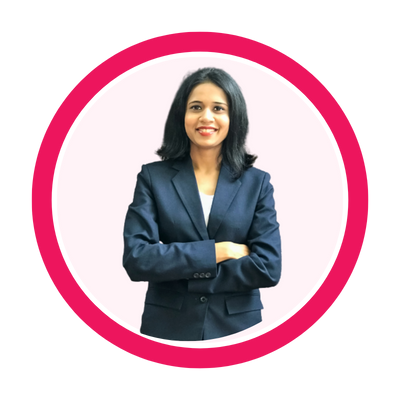
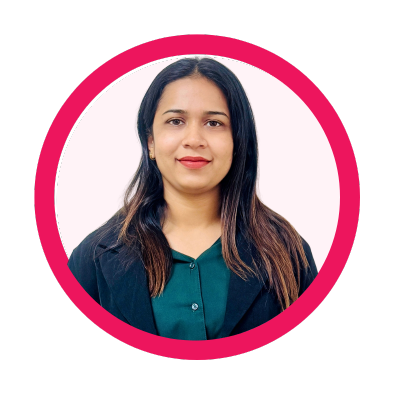
hero updation in about and home page

diff --git a/src/Component/Hero/Home.css b/src/Component/Hero/Home.css
@@ -94,11 +94,12 @@
   }
 
   /* Mobile Devices */
-  @media only screen and (min-width: 320px) and (max-width: 480px) {
+  @media (max-width: 320px){
     
     .hero .right_img img {
         width: 100%;
         right: 24px !important;
+        margin-top: 30px !important;
       }
     
       .hero h2 {
@@ -109,12 +110,31 @@
       }
      
   }
+ /* Mobile Devices */
+ @media (max-width: 480px) {
+    
+  .hero .right_img img {
+      width: 100%;
+      right: 24px !important;
+      margin-top: -70px;
+    }
+  
+    .hero h2 {
+      font-size: 40px;
+    }
+    .hero .right_img {
+      width: 91%;
+    }
+   
+}
+
 /* Tablet */
   @media (max-width: 768px) {
     .hero .right,
     .hero .left {
       width: 100%;
       margin-left: 20px;
+
     }
   
     .hero .f_flex {
